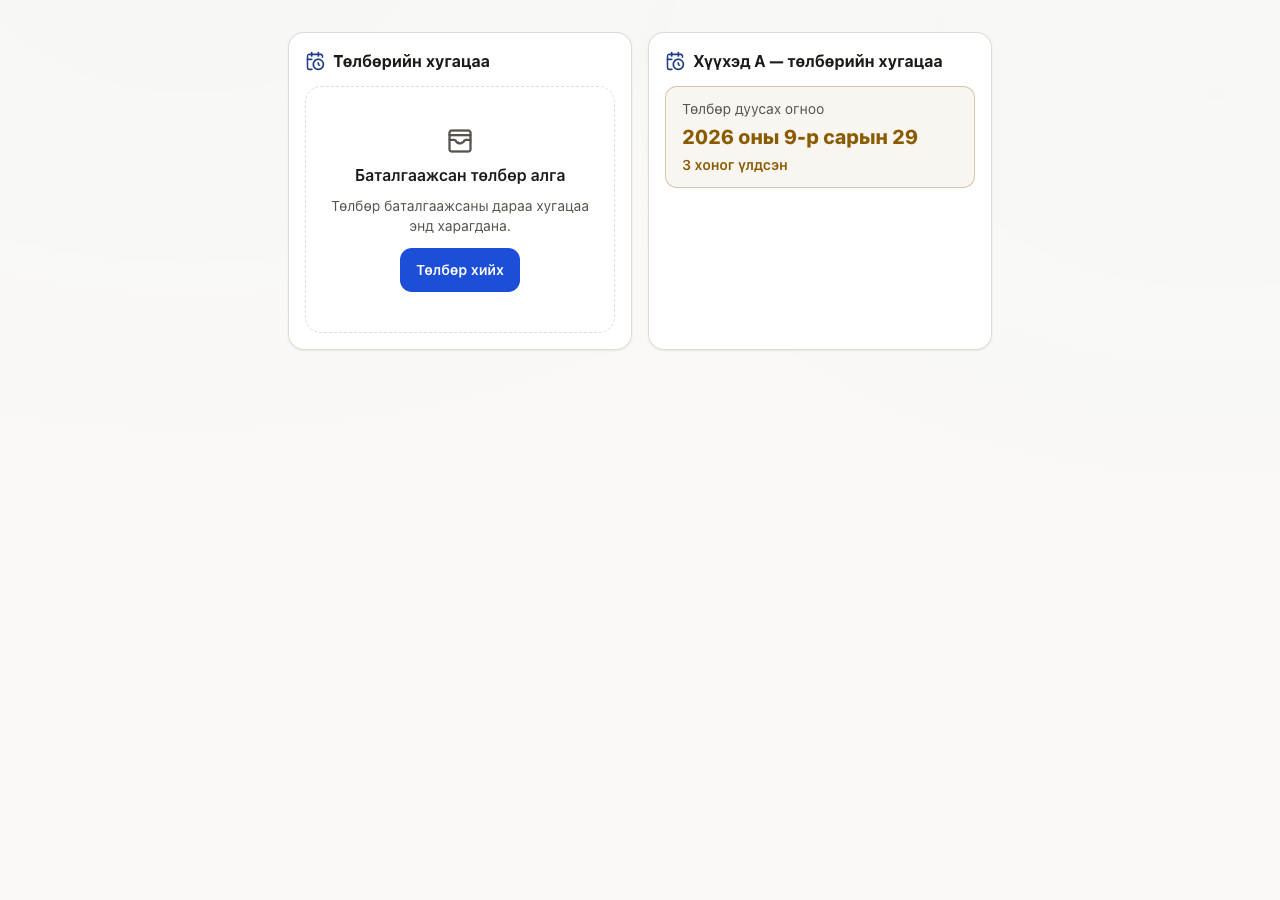
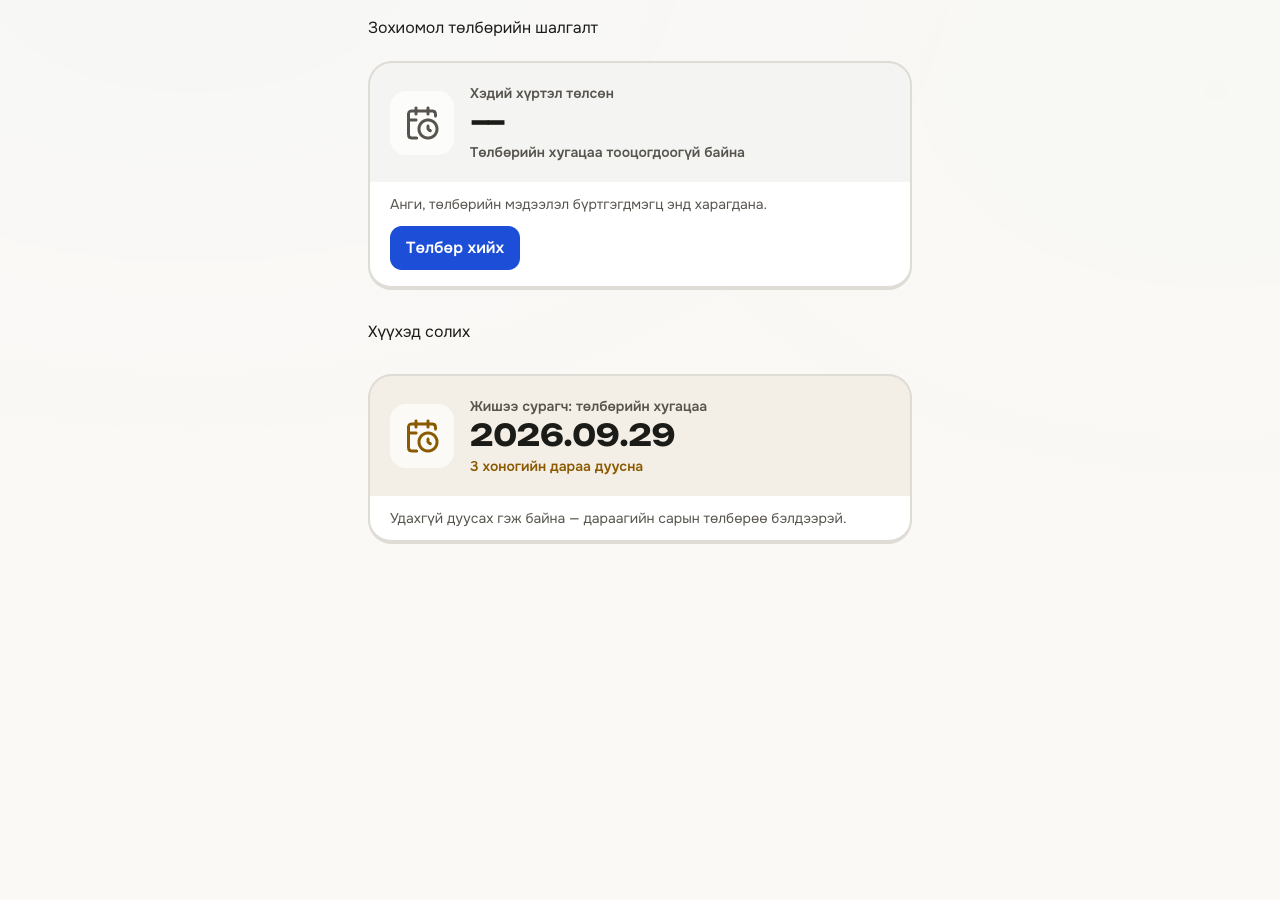
Reconcile parent access tests and refresh current UI evidence

Changed region(s): [[0.2188, 0.0311, 0.75, 0.3733], [0.3125, 0.56, 0.6875, 0.6222], [0.3125, 0.4356, 0.5625, 0.5289]]

diff --git a/api/src/tuition/paid-until-parent.spec.ts b/api/src/tuition/paid-until-parent.spec.ts
@@ -1,11 +1,14 @@
 import { ForbiddenException } from '@nestjs/common';
 import { ROLES_KEY } from '../auth/decorators/roles.decorator';
 import { TuitionController } from './tuition.controller';
+import { TuitionService } from './tuition.service';
+import { PrismaService } from '../prisma/prisma.service';
 
 describe('GET /tuition/paid-until/:studentId — эцэг эх (G26)', () => {
   function make(link: object | null) {
     const prisma = { parentLink: { findFirst: jest.fn(async () => link) }, enrollment: { findMany: jest.fn() } };
-    const service = { prisma, getPaidUntil: jest.fn(async () => new Date('2026-10-20T00:00:00Z')) };
+    const service = new TuitionService(prisma as unknown as PrismaService, {} as never);
+    jest.spyOn(service, 'getPaidUntil').mockResolvedValue(new Date('2026-10-20T00:00:00Z'));
     const ctrl = new (TuitionController as any)(service);
     return { ctrl, prisma, service };
   }
@@ -20,6 +23,7 @@ describe('GET /tuition/paid-until/:studentId — эцэг эх (G26)', () => {
     await expect(ctrl.getPaidUntil('s1', req)).resolves.toEqual({ paidUntil: new Date('2026-10-20T00:00:00Z') });
     expect(prisma.parentLink.findFirst).toHaveBeenCalledWith({
       where: { parentId: 'parent1', studentId: 's1', verifiedAt: { not: null } },
+      select: { id: true },
     });
   });
 
